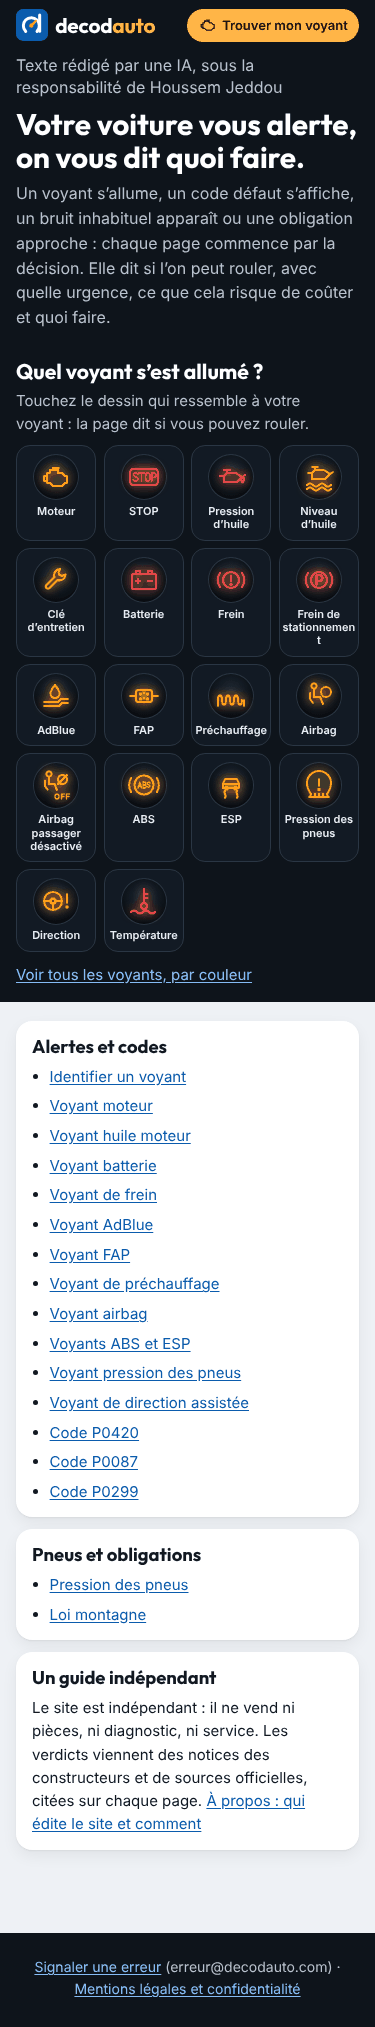
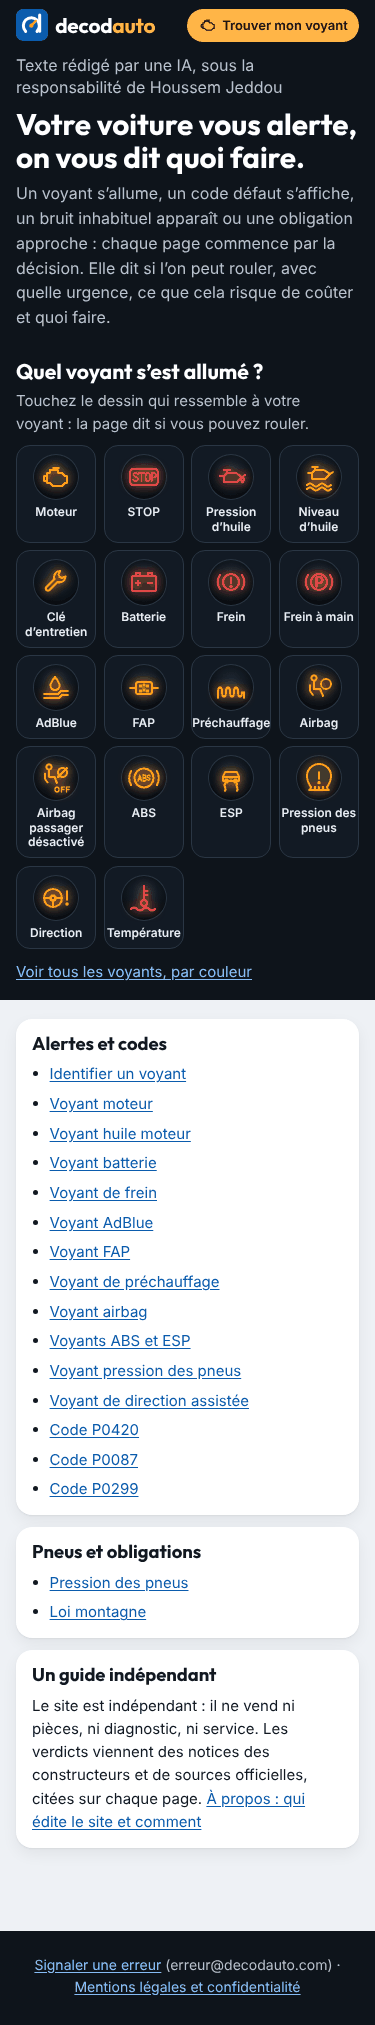
Lot F1.2, seconde revue : repères AdBlue retirés, grille en 12 px sans mot coupé, sommaire collé avec fondu, pages écrites à la main signalées
- Brouillon : aucun repère sur la page AdBlue (ses sections mêlent plusieurs cas). Règle retenue notée pour F1.4 et la liste
  de recette (travaux/etape-13/f1/a-reporter-f1.4.md, CONTROLES.md) : un repère seulement sous un H2 qui pose la question d'une
  seule ligne ; exception explicite admise ; pas de contrôle automatique strict.
- Accueil : « Frein à main » ; libellés en 12 px comme le pilote (les 18 tiennent à 375 px, deux polices, sans mot coupé) ;
  hyphens:auto (mots de 10 lettres au moins) au lieu de overflow-wrap:anywhere.
- Sommaire sur ordinateur : fondu collé en bas de la colonne, au-dessus des pastilles ; capturer.cjs : défilement jamais
  négatif, colonne collée et colonne défilée, police chargée servie en font-display: block pour la capture.
- FORMAT2-METHODE signale aussi une page écrite à la main (« p. » suivi d'un chiffre) hors citation ; erreur attendue sur
  la démonstration du voyant moteur (texte non repris).
- illustrationAccueil (exigée, testée) ; insecableApresPage hors svg, code, pre, script et style ; commentaire de ci.yml.
- Captures et mesures refaites. Production identique octet pour octet (diff -rq).

Claude-Session: https://claude.ai/code/session_01D9NChPBVJTio8astCmYhoa

diff --git a/src/styles/charte-b.css b/src/styles/charte-b.css
@@ -186,7 +186,9 @@ main>.accueil-main{max-width:72rem}
 .voyants-chapo{margin:.2rem 0 .6rem;font-size:.9375rem}
 .grille-voyants{list-style:none;margin:0;padding:0;display:grid;grid-template-columns:repeat(4,minmax(0,1fr));gap:.45rem}
 .grille-voyants li{display:grid}
-.grille-voyants a{display:grid;justify-items:center;align-content:start;gap:.3rem;text-decoration:none;font-size:.6875rem;font-weight:600;text-align:center;line-height:1.2;padding:.5rem .1rem;overflow-wrap:anywhere}
+/* Libellés de la grille en 12 px (pilote) : les 18 tiennent à 375 px sans coupure, police chargée ou de secours ; sur un écran plus
+   étroit, un mot long se coupe avec un tiret (jamais sans), seulement s'il a 10 lettres au moins (seconde revue de F1.2). */
+.grille-voyants a{display:grid;justify-items:center;align-content:start;gap:.3rem;text-decoration:none;font-size:.75rem;font-weight:600;text-align:center;line-height:1.2;padding:.5rem 0;-webkit-hyphens:auto;hyphens:auto;hyphenate-limit-chars:10 4 4}
 .grille-voyants .tuile{width:2.9rem;height:2.9rem}
 .grille-voyants .tuile svg{width:2rem;height:2rem}
 .tous{margin:.7rem 0 0;font-size:.9375rem}
@@ -206,11 +208,12 @@ main>.accueil-main{max-width:72rem}
   main>.page{display:grid;grid-template-columns:minmax(0,44rem) 17rem;gap:2rem;max-width:66rem}
   main>.page .colonne{min-width:0}
   main>.page aside{position:relative}
-  /* Colonne collante, état long (F1.2-corrections, §3) : hauteur de l'écran moins son décalage, défilement propre, ombre en
-     bas tant que la suite est cachée (ombres de défilement en CSS seul : fonds « local » et « scroll »). */
-  main>.page aside .colle{position:sticky;top:1rem;max-height:calc(100vh - 2rem);overflow-y:auto;overscroll-behavior:contain;scrollbar-width:thin;
-    background:linear-gradient(var(--fond-page) 30%,rgba(238,241,245,0)) center top/100% 2rem no-repeat local,linear-gradient(rgba(238,241,245,0),var(--fond-page) 70%) center bottom/100% 2rem no-repeat local,radial-gradient(farthest-side at 50% 0,rgba(18,24,32,.22),transparent) center top/100% .7rem no-repeat scroll,radial-gradient(farthest-side at 50% 100%,rgba(18,24,32,.22),transparent) center bottom/100% .7rem no-repeat scroll}
-  main>.page aside .sommaire{margin-top:0;padding-bottom:.5rem}
+  /* Colonne collante, état long (F1.2-corrections, §3 ; seconde revue) : hauteur de l'écran moins son décalage, défilement propre ;
+     un fondu collé en bas de la colonne, au-dessus des pastilles, signale la suite ; la marge basse du sommaire le laisse sur du
+     vide quand la colonne est au bout (ou quand tout tient). */
+  main>.page aside .colle{position:sticky;top:1rem;max-height:calc(100vh - 2rem);overflow-y:auto;overscroll-behavior:contain;scrollbar-width:thin}
+  main>.page aside .colle::after{content:"";display:block;position:sticky;bottom:0;height:2.5rem;margin-top:-2.5rem;pointer-events:none;background:linear-gradient(rgba(238,241,245,0),var(--fond-page) 85%)}
+  main>.page aside .sommaire{margin-top:0;padding-bottom:2.5rem}
   main>.page aside .sommaire ul{flex-direction:column;flex-wrap:nowrap;overflow:visible}
   /* Mention en tête alignée sur le fil, le H1 et l'encadré (F1.2-corrections, §5). */
   .tete:not(.hero)>.mention-ia{max-width:66rem}

diff --git a/tests/format2.test.ts b/tests/format2.test.ts
@@ -25,6 +25,7 @@ import {
   tuileDeLaPage,
   insecableApresPage,
   minusculeInitiale,
+  illustrationAccueil,
 } from '../src/lib/format2.ts';
 import { controlerFormat2 } from '../src/lib/controle-format2.ts';
 import { marqueEtModele, modeleDeLaPage, pageVoyant, pageVoyantF2, texteRedige } from '../src/lib/modeles.ts';
@@ -366,6 +367,9 @@ describe('format 2 : corrections après la revue (brief F1.2-corrections)', () =
   test('§5 espace insécable après « p. » (texte seulement), minuscule initiale, tuile d\'une page code', async () => {
     assert.equal(insecableApresPage('<p>notice (p. 13) et p. 15</p><a title="p. 1">'), '<p>notice (p. 13) et p. 15</p><a title="p. 1">');
     assert.equal(insecableApresPage('<p>cap. 3</p>'), '<p>cap. 3</p>');
+    // Seconde revue : jamais dans un dessin, du code ou un script.
+    const brut = '<svg viewBox="0 0 1 1"><text>p. 1</text></svg><code>p. 2</code><pre>x p. 3</pre><script>a="p. 4"</script><p>p. 5</p>';
+    assert.equal(insecableApresPage(brut), brut.replace('<p>p. 5</p>', '<p>p.\u00a05</p>'));
     assert.equal(minusculeInitiale('Voyant moteur orange'), 'voyant moteur orange');
     assert.equal(minusculeInitiale('AdBlue : démarrage impossible'), 'AdBlue : démarrage impossible');
     assert.equal(minusculeInitiale('STOP'), 'STOP');
@@ -423,6 +427,23 @@ describe('format 2 : corrections après la revue (brief F1.2-corrections)', () =
     assert.ok(!avec('Texte du site.').includes('FORMAT2-METHODE'));
     assert.ok(avec('Verdict retenu en haut de page : oui.').includes('FORMAT2-METHODE'));
     assert.ok(avec('Le guide, édition 01-20, le dit.').includes('FORMAT2-METHODE'));
+    // Seconde revue : une page écrite à la main (« p. » suivi d'un chiffre), hors citation.
+    assert.ok(avec('La notice le dit (p. 139).').includes('FORMAT2-METHODE'));
+    assert.ok(avec('La notice le dit (p.\u00a0139 et p. 113).').includes('FORMAT2-METHODE'));
+    assert.ok(!avec('Le texte cite « voir p. 12 ».').includes('FORMAT2-METHODE'), 'citation entre guillemets');
+    assert.ok(!avec('Le cap. 3 ne compte pas.').includes('FORMAT2-METHODE'));
     assert.ok(!avec('La notice dit « édition 01-20 ».').includes('FORMAT2-METHODE'), 'citation entre guillemets');
+  });
+});
+
+describe('format 2 : seconde revue de F1.2', () => {
+  test('illustration de l\'accueil exigée au format 2 ; libellé « Frein à main » ; pas de repère sur la page AdBlue du brouillon', async () => {
+    const { site } = await siteDemo();
+    const accueil = { fichier: 'accueil-tableau-de-bord', alt: 'Tableau de bord' };
+    assert.match(illustrationAccueil(site.illustrations, accueil), /^<figure class="illustration illustration-accueil" data-illustration><svg[^>]* role="img" aria-label="Tableau de bord"/);
+    assert.throws(() => illustrationAccueil(new Map(), accueil), /accueil au format 2 : illustration « accueil-tableau-de-bord » introuvable/);
+    assert.throws(() => illustrationAccueil(undefined, accueil), /introuvable/);
+    assert.equal(LIBELLES_PICTOGRAMMES['frein-stationnement'], 'Frein à main');
+    assert.deepEqual(brouillon.pages['voyant-adblue']?.reperes ?? [], []);
   });
 });

diff --git a/src/lib/controle-format2.ts b/src/lib/controle-format2.ts
@@ -11,7 +11,8 @@
 //    l'encadré (règle 2d) ;
 //  - FORMAT2-REPLIE : chaque extrait cité du tableau des notices est dans une partie dépliable, au libellé unique sur la
 //    page (règle 2f) ; « Sources » est repliée (details fermé) et son résumé donne leur nombre (règle 2g) ;
-//  - FORMAT2-METHODE : ni « Verdict retenu » ni le mot « édition » dans le texte rédigé, hors citation (règle 2d) ;
+//  - FORMAT2-METHODE : ni « Verdict retenu », ni le mot « édition », ni une page écrite à la main (« p. 13 ») dans le texte
+//    rédigé, hors citation (règle 2d) ;
 //  - FORMAT2-SOMMAIRE : dès SOMMAIRE_MIN_H2 titres H2 dans le texte rédigé, un sommaire « Sur cette page » qui mène à
 //    chacun d'eux, sans lien vers une ancre absente (règle 2h).
 // Les mesures de hauteur (2a, 2i : premier écran, trois écrans) se font à la porte, avec un navigateur (conception, §5).
@@ -113,12 +114,17 @@ export function controlerFormat2(html: string, fichier: string, lignes: readonly
     }
   }
 
-  // Méthode hors du texte (2d) : ni « Verdict retenu » ni le mot « édition » dans le texte rédigé, hors citation (texte
-  // entre guillemets « … », blockquote, q).
+  // Méthode hors du texte (2d) : ni « Verdict retenu », ni le mot « édition », ni une page écrite à la main dans le texte rédigé,
+  // hors citation (texte entre guillemets « … », blockquote, q). Les « {{cite:…}} » n'y sont plus : leurs pages vont dans « Sources ».
   const corps = $('[data-corps]').clone();
   corps.find('blockquote, q, .notices-citation').remove();
   const sansCitations = texte(corps).replace(/«[^»]*»/g, ' ');
-  const methode = [/verdict retenu/i.test(sansCitations) ? '« Verdict retenu »' : '', /(^|[^\p{L}])[ée]ditions?(?![\p{L}])/iu.test(sansCitations) ? '« édition »' : ''].filter((m) => m !== '');
+  const methode = [
+    /verdict retenu/i.test(sansCitations) ? '« Verdict retenu »' : '',
+    /(^|[^\p{L}])[ée]ditions?(?![\p{L}])/iu.test(sansCitations) ? '« édition »' : '',
+    // Page écrite à la main (« p. 139 ») : au format 2, une page citée s'écrit « {{cite:…}} » (rendue dans « Sources »).
+    /(^|[^\p{L}])p\.[\s\u00a0\u202f]*\d/u.test(sansCitations) ? 'une page écrite à la main (« p. » suivi d\'un chiffre)' : '',
+  ].filter((m) => m !== '');
   if (methode.length > 0) constats.push(erreur('FORMAT2-METHODE', `le texte rédigé contient ${methode.join(' et ')} hors citation : au format 2, la méthode sort du texte, qui nomme la marque et le modèle ; les éditions et références vont dans « Sources » (règle 2d)`, fichier));
 
   // Sommaire (2h).

diff --git a/src/lib/format2.ts b/src/lib/format2.ts
@@ -483,7 +483,22 @@ export function tuileDeLaPage(site: Pick<DonneesSite, 'voyants' | 'pictogrammes'
  * Espace insécable après « p. » devant un numéro de page (charte graphique §3), dans le texte affiché d'une page au format 2
  * (jamais dans une balise ni un attribut). Le format 1 n'est pas touché (production identique).
  */
-export const insecableApresPage = (html: string): string => html.replace(/(>[^<]*)/g, (texte) => texte.replace(/(^|[^\p{L}])p\. (?=\d)/gu, `$1p.\u00a0`));
+export const insecableApresPage = (html: string): string =>
+  html
+    // Dessins, code, scripts et styles ne sont jamais retouchés (comme typographierHtml).
+    .split(/(<(svg|code|pre|script|style|textarea)\b[\s\S]*?<\/\2\s*>)/i)
+    .map((morceau, i) => (i % 3 === 0 ? morceau.replace(/(>[^<]*)/g, (texte) => texte.replace(/(^|[^\p{L}])p\. (?=\d)/gu, `$1p.\u00a0`)) : i % 3 === 1 ? morceau : ''))
+    .join('');
+
+/**
+ * Illustration du combiné de l'accueil au format 2 (affichée sur ordinateur) : exigée, comme sur les pages voyants (règle 2i ;
+ * brief F1.2-corrections, §6).
+ */
+export function illustrationAccueil(illustrations: ReadonlyMap<string, string> | undefined, illustration: { fichier: string; alt: string }): string {
+  const dessin = illustrations?.get(illustration.fichier);
+  if (dessin === undefined) throw new Error(`accueil au format 2 : illustration « ${illustration.fichier} » introuvable (${DOSSIER_ILLUSTRATIONS}/${illustration.fichier}.svg)`);
+  return figureIllustration(illustrationEnLigne(dessin, illustration.alt, illustration.fichier), '', 'illustration illustration-accueil');
+}
 
 /** Illustration de la page, tirée de `site.illustrations` ; obligatoire au format 2 (règle 2i). */
 export function illustrationDeLaPage(page: Pick<PageEditoriale, 'id' | 'illustration'>, site: Pick<DonneesSite, 'illustrations'>): string {

diff --git a/src/lib/pictogrammes.ts b/src/lib/pictogrammes.ts
@@ -13,7 +13,7 @@ export const LIBELLES_PICTOGRAMMES: Readonly<Record<string, string>> = {
   'cle-entretien': 'Clé d’entretien',
   batterie: 'Batterie',
   frein: 'Frein',
-  'frein-stationnement': 'Frein de stationnement',
+  'frein-stationnement': 'Frein à main',
   adblue: 'AdBlue',
   fap: 'FAP',
   prechauffage: 'Préchauffage',

diff --git a/travaux/etape-13/f1/captures/README.md b/travaux/etape-13/f1/captures/README.md
@@ -1,6 +1,7 @@
 # Captures et mesures de la démonstration du format 2 (lot F1, tâche F1.2)
 
-Prises le 15/11/2026, refaites le 16/11/2026 après les corrections de la revue (brief `F1.2-corrections.md`), par `capturer.cjs` (Chromium et Playwright préinstallés de l'environnement de Claude), sur :
+Prises le 16/11/2026 après la seconde revue indépendante de F1.2, par `capturer.cjs` (Chromium et Playwright préinstallés de
+l'environnement de Claude), sur :
 - la **démonstration** : `npm run demo:format2` (construction `dist-demo-format2`, jamais déployée), servie en local ;
 - le **pilote validé** (piste B) : maquette de `generer.py` (branche `etape-13/pilote-f1`), régénérée avec les mêmes
   pictogrammes et la même base, servie en local, sa barre de commandes masquée (comme pour ses propres mesures).
@@ -8,11 +9,16 @@ Prises le 15/11/2026, refaites le 16/11/2026 après les corrections de la revue 
 Fichiers : `<demo|pilote>-<accueil|moteur|adblue>-<375-ecran|375-page|1366-ecran>-<chargee|secours>.png`.
 - `375-ecran` : 375 × 667, premier écran (échelle 2) ; `375-page` : page entière à 375 px (échelle 1) ; `1366-ecran` :
   1366 × 800 (échelle 1). PNG réduits à 128 couleurs.
-- Police chargée : page ouverte deux fois (police Outfit en cache : `font-display: optional` l'affiche) ; police de
-  secours : requêtes de `/polices/` (pilote : `/fonts/`) bloquées. Même fichier de police (octet pour octet) dans les deux.
+- Police chargée : la feuille est servie en `font-display: block` pour la capture (état d'un lecteur qui a la police en
+  cache ; en `optional`, une police arrivée après le premier rendu peut laisser la police de secours, ce qui avait faussé une
+  capture « chargée ») ; police de secours : requêtes de `/polices/` (pilote : `/fonts/`) bloquées. Même fichier de police
+  (octet pour octet) dans les deux. La colonne « lignesH1 » de `mesures.json` donne le nombre de lignes du H1.
+- `demo-sommaire-<long|court>-<375|1366>-<chargee|secours>.png` : sommaire du voyant moteur, état long (titres H2 entiers, la
+  page telle quelle) et état court (libellés courts du pilote posés dans la page pour la capture seulement). À 1366 : page
+  défilée au-delà de l'encadré, colonne collée en haut ; `…-1366-defilee-…` : la colonne défilée d'elle-même. Colonne du
+  voyant moteur : 768 px de haut au plus (écran de 800 px moins 2 × 16 px), 826 px de contenu, défilement
+  `auto` ; fondu collé en bas tant que la suite est cachée.
 - `mesures.json` : mesures brutes, en pixels CSS depuis le haut de la page.
-- `demo-sommaire-<long|court>-<375|1366>-<chargee|secours>.png` : sommaire du voyant moteur, état long (titres H2
-  entiers, la page telle quelle) et état court (libellés courts du pilote posés dans la page pour la capture seulement).
 
 ## Pages voyants (375 × 667, sauf la dernière colonne)
 
@@ -27,18 +33,20 @@ illustration juste après le bloc « Notices / Base du coût » (précision du 1
 | moteur | démonstration | secours | 99 | 522 | 1515 | 1939 | 1952 | oui | 12521 | 8141 |
 | moteur | pilote | chargée | 99 | 522 | 1515 | 1817 | 1829 | oui | 10992 | 7607 |
 | moteur | pilote | secours | 99 | 522 | 1515 | 1817 | 1829 | oui | 11042 | 7607 |
-| adblue | démonstration | chargée | 99 | 601 | 2222 | 2740 | 2753 | oui | 13870 | 8456 |
-| adblue | démonstration | secours | 99 | 601 | 2222 | 2740 | 2753 | oui | 13870 | 8482 |
+| adblue | démonstration | chargée | 99 | 601 | 2222 | 2740 | 2753 | oui | 13833 | 8419 |
+| adblue | démonstration | secours | 99 | 601 | 2222 | 2740 | 2753 | oui | 13833 | 8444 |
 | adblue | pilote | chargée | 99 | 601 | 2222 | 2561 | 2574 | oui | 6799 | 4723 |
 | adblue | pilote | secours | 99 | 601 | 2222 | 2561 | 2574 | oui | 6799 | 4749 |
 
 ## Accueil (375 × 667, sauf la dernière colonne)
 
-Règle 2k : la grille des pictogrammes (18 dessins) commence dans le premier écran du téléphone.
+Règle 2k : la grille des pictogrammes (18 dessins, libellés en 12 px) commence dans le premier écran du téléphone. Les 18
+libellés tiennent à 375 px sans mot coupé, police chargée et police de secours (vérifié mot par mot) ; plus étroit (320 px),
+un mot de 10 lettres au moins se coupe avec un tiret.
 
 | Source | Police | Bas de la mention | Haut de la grille des voyants | Hauteur de la page | Hauteur à 1366 px |
 |---|---|---|---|---|---|
-| démonstration | chargée | 99 | 445 | 2027 | 1415 |
-| démonstration | secours | 99 | 478 | 2059 | 1415 |
+| démonstration | chargée | 99 | 445 | 2025 | 1399 |
+| démonstration | secours | 99 | 478 | 2057 | 1399 |
 | pilote | chargée | 99 | 445 | 1696 | 1116 |
 | pilote | secours | 99 | 478 | 1729 | 1116 |

diff --git a/CONTROLES.md b/CONTROLES.md
@@ -203,9 +203,9 @@ Modèle : `src/lib/format2.ts` (page voyant hors outil, choisie par `modeleDeLaP
 |---|---|---|---|
 | FORMAT2-ECART | Une ligne de l'encadré dont les marques divergent affiche sa ligne d'écart courte (`data-ecart-court`, texte exact de `ecart_court`), de 25 mots au plus, lien « Votre marque » compris (`ECART_COURT_MAX_MOTS`, règle 2b) ; une ligne sans écart n'en affiche pas | erreur | `tests/format2.test.ts` |
 | FORMAT2-PROVENANCE | Un bloc « Notices / Base du coût » (`data-provenance`) suit immédiatement la ligne de transparence ; sa phrase « Notices » est exactement celle que compose le modèle (`phraseNotices`) : la phrase des sources de chaque ligne, attribuée à ses numéros de ligne (« Lignes 1 et 2 : … »), ce que R9-ENCADRE-SOURCES garantit au format 1 (règle 2b) | erreur | `tests/format2.test.ts` |
-| FORMAT2-METHODE | Le texte rédigé d'une page au format 2 ne contient ni « Verdict retenu » ni le mot « édition », hors citation (texte entre guillemets « … », `blockquote`, `q`) : la méthode sort du texte (règle 2d) | erreur | `tests/format2.test.ts` |
+| FORMAT2-METHODE | Le texte rédigé d'une page au format 2 ne contient ni « Verdict retenu », ni le mot « édition », ni une page écrite à la main (« p. » suivi d'un chiffre, hors `{{cite:…}}`, dont les pages vont dans « Sources »), hors citation (texte entre guillemets « … », `blockquote`, `q`) : la méthode sort du texte (règle 2d) | erreur | `tests/format2.test.ts` |
 | FORMAT2-ILLUSTRATION | Une seule illustration (`figure[data-illustration]`), juste après ce bloc (règle 2i, précision du 15/11), dessin SVG nommé (`role="img"`, `aria-label`) et légende terminée par « Illustration decodauto. » | erreur | `tests/format2.test.ts` |
-| FORMAT2-REPERE | Chaque repère du verdict (`data-repere`) suit immédiatement un H2 du texte rédigé et porte le verdict d'une ligne de l'encadré (règle 2d) | erreur | `tests/format2.test.ts` |
+| FORMAT2-REPERE | Chaque repère du verdict (`data-repere`) suit immédiatement un H2 du texte rédigé et porte le verdict d'une ligne de l'encadré (règle 2d). Le choix des sections qui en ont un se relit (liste de recette) : un repère seulement sous un H2 qui pose la question d'une seule ligne ; une exception explicite à une autre ligne dans le texte est admise (FAP avec voyant moteur) ; une section qui mêle plusieurs cas n'en a pas. Pas de contrôle automatique de ce choix : il refuserait les exceptions légitimes | erreur | `tests/format2.test.ts` |
 | FORMAT2-REPLIE | Chaque extrait cité du tableau des notices est dans une partie dépliable fermée, au libellé unique sur la page (règle 2f) ; « Sources » est un `details` fermé dont le résumé est « Sources (n) », n le nombre de sources listées (règle 2g) | erreur | `tests/format2.test.ts` |
 | FORMAT2-SOMMAIRE | Dès `SOMMAIRE_MIN_H2` (3) titres H2 dans le texte rédigé, un sommaire « Sur cette page » (`data-sommaire`) mène à chacun d'eux, sans lien vers une ancre absente (règle 2h ; approximation des six écrans vérifiée à la porte) | erreur | `tests/format2.test.ts` |
 | PICTO-LIBELLE | Chaque fichier de `src/pictogrammes` a son libellé dans `LIBELLES_PICTOGRAMMES` (`src/lib/pictogrammes.ts`, grille de l'accueil au format 2), et aucun libellé n'est sans fichier | erreur | `tests/format2.test.ts` |

diff --git a/travaux/etape-13/f1/a-reporter-f1.4.md b/travaux/etape-13/f1/a-reporter-f1.4.md
@@ -1,0 +1,25 @@
+# Lot F1 : à reporter à la porte F1.4 (charte graphique `docs/11`, liste de recette `docs/03`)
+
+Notes de la mise en œuvre de F1.2 et de ses deux revues indépendantes (16/11/2026). `docs/` ne se modifie qu'après la
+validation de Houssem, par la pull request de la copie : ces points y entrent à F1.4, avec la porte du format.
+
+## Charte graphique (`docs/11`)
+- **§4, repère de section (règle retenue à la seconde revue de F1.2)** : un repère seulement sous un H2 qui pose la question
+  d'une seule ligne de l'encadré ; une exception explicite à une autre ligne dans le texte est admise (exemple : FAP avec le
+  voyant moteur) ; une section qui mêle plusieurs cas n'a pas de repère. Pas de contrôle automatique strict : FORMAT2-REPERE
+  vérifie la place (sous un H2) et le verdict (celui d'une ligne de l'encadré), le choix des sections se relit.
+- **§4, sommaire** : état long dessiné. Ordinateur : colonne collante à la hauteur de l'écran, défilement propre, ombres de
+  défilement. Téléphone : pastilles de 13,5 rem au plus (une pastille et demie visible à 375 px), deux lignes puis points de
+  suspension, hauteur égale, accroche, fondu à droite.
+- **§4, accueil** : grille d'un dessin par pictogramme de la base (18), libellés de `LIBELLES_PICTOGRAMMES` (dont « Frein à
+  main ») ; libellés en 12 px (13 px sur ordinateur), coupure d'un mot de 10 lettres au moins avec un tiret, jamais sans ;
+  liens des cartes de thème espacés (cibles tactiles de 24 px).
+- **§4, tableau des notices** : « Consigne retenue » dans la cellule « Niveau » ; colonne « Page » courte (« p. 15 »),
+  emplacement entier sous l'extrait.
+- **§4, emplacement publicitaire** : 340 px réservés (règle du site, PUB-HAUTEUR-RESERVEE).
+- **§3, typographie** : espace insécable après « p. » devant un numéro, au format 2.
+
+## Liste de recette (`docs/03`, étape 9) : à ajouter pour les lots au format 2
+- Repères de section : un repère seulement sous un H2 qui pose la question d'une seule ligne de l'encadré (exception explicite
+  admise, section qui mêle plusieurs cas sans repère).
+- Texte : ni « Verdict retenu », ni édition, ni page écrite à la main (contrôle FORMAT2-METHODE), marque et modèle nommés.
